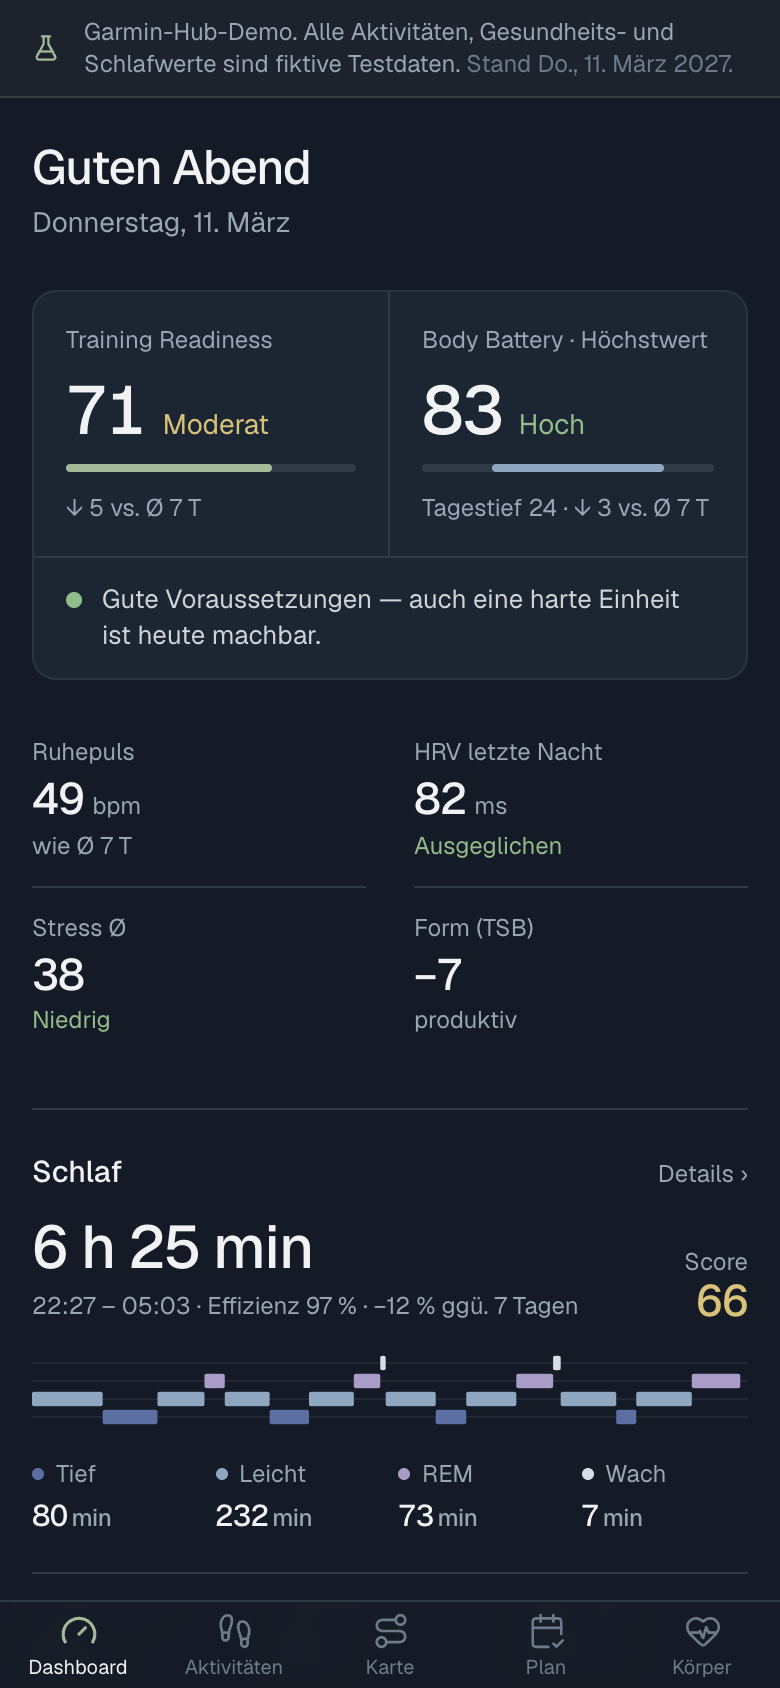
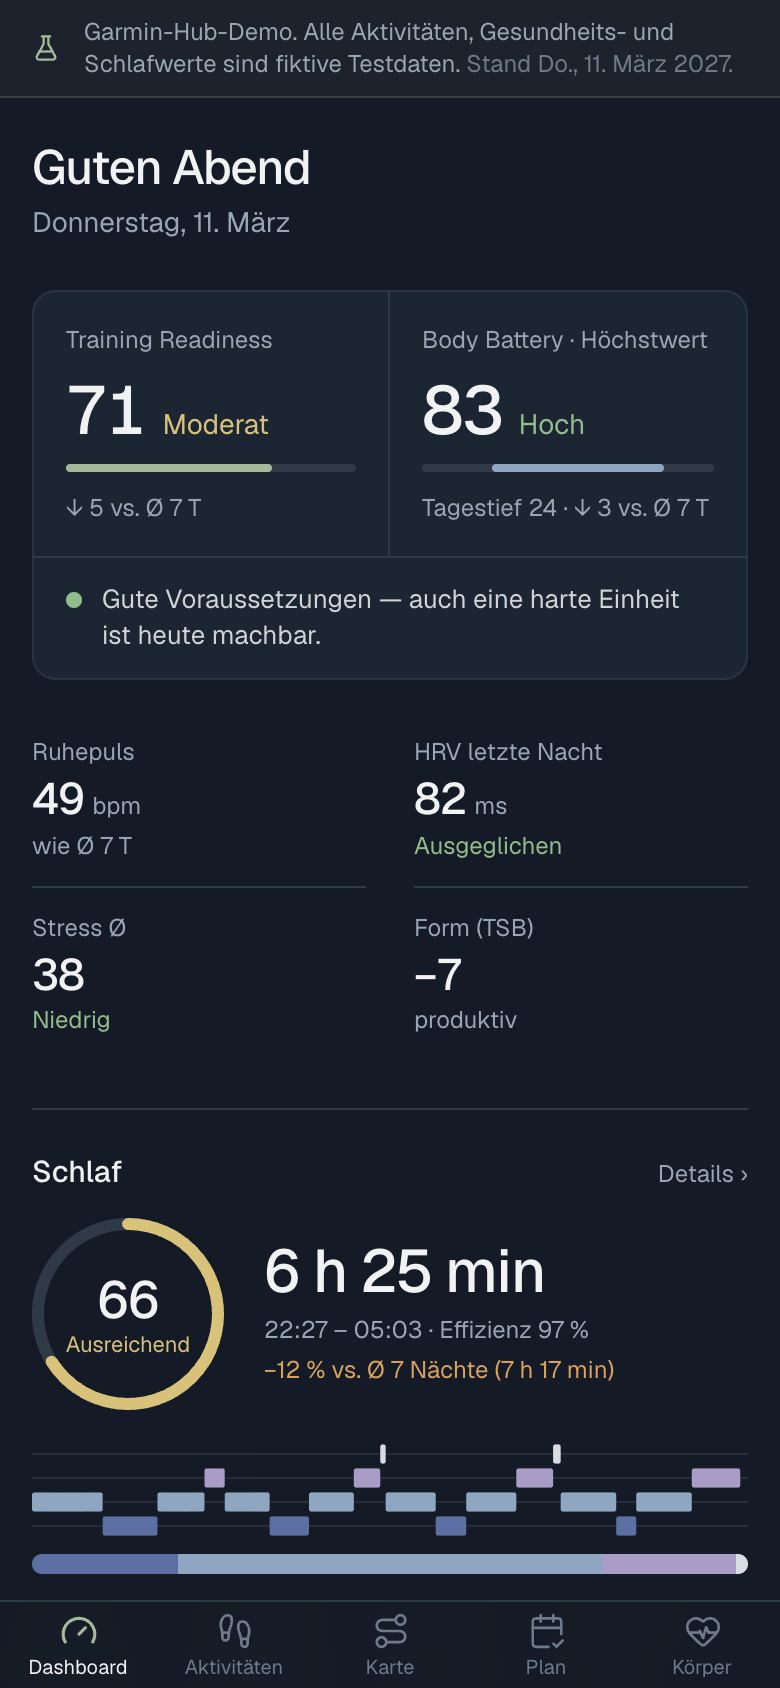
feat: Schlaf mit Score-Ring, Dauer daneben und Verlauf darunter
- Garmin Sleep Score als schlanker Ring mit Bewertung nach Garmins
  Bereichen (exzellent, gut, ausreichend, schlecht) in der Statusfarbe
- Daneben Dauer, Bettzeit, Effizienz und Abweichung vom Mittel der
  letzten 7 Nächte; darunter Mini-Hypnogramm, Phasenbalken und Phasen
  in Minuten und Prozent
- Gleicher Ring im Kopf der Schlaf-Detailansicht
- schlafScoreStufe mit Tests, Doku und Screenshots aktualisiert

Changed region(s): [[0.0308, 0.7085, 0.9538, 0.955]]

diff --git a/components/dashboard/schlaf-kachel-ansicht.tsx b/components/dashboard/schlaf-kachel-ansicht.tsx
@@ -2,6 +2,8 @@ import { AppLink as Link } from "@/components/basis-pfad";
 import { Abschnitt } from "@/components/ui/kachel";
 import { Skeleton } from "@/components/ui/skeleton";
 import { HypnogrammMini } from "@/components/schlaf/hypnogramm-mini";
+import { PhasenBalken } from "@/components/schlaf/phasen-balken";
+import { ScoreRing } from "@/components/schlaf/score-ring";
 import { PHASEN_FARBE } from "@/components/schlaf/farben";
 import { formatDauer, PHASEN, PHASEN_LABEL } from "@/lib/engine/schlaf";
 import { formatDatumLang } from "@/lib/format";
@@ -17,9 +19,15 @@ const DetailLink = ({ datum }: { datum: string }) => (
 export function SchlafKachelSkeleton() {
   return (
     <Abschnitt titel="Schlaf">
-      <div className="space-y-3" aria-busy>
-        <Skeleton className="h-8 w-40" />
-        <Skeleton className="h-8 w-full" />
+      <div className="space-y-4" aria-busy>
+        <div className="flex items-center gap-5">
+          <Skeleton className="size-[96px] shrink-0 rounded-full" />
+          <div className="flex-1 space-y-2">
+            <Skeleton className="h-8 w-36" />
+            <Skeleton className="h-4 w-48" />
+          </div>
+        </div>
+        <Skeleton className="h-12 w-full" />
         <Skeleton className="h-10 w-full" />
       </div>
     </Abschnitt>
@@ -40,9 +48,11 @@ function Wert({ label, wert, einheit }: { label: string; wert: string | null; ei
 }
 
 /**
- * Schlaf der letzten Nacht als ruhiger Abschnitt: Dauer und Score, schlanke
- * Phasen-Zeitleiste, Phasen in Minuten, Herzfrequenz, HRV und Atmung.
- * Ohne Daten ein kurzer Hinweis (auch von der Demo genutzt).
+ * Schlaf der letzten Nacht: Score-Ring mit Garmin-Bewertung, daneben Dauer,
+ * Bettzeit und Vergleich mit den letzten 7 Nächten; darunter der Verlauf
+ * der Nacht (Phasen-Zeitleiste und Anteile), Phasen in Minuten,
+ * Herzfrequenz, HRV und Atmung. Ohne Daten ein kurzer Hinweis (auch von der
+ * Demo genutzt).
  */
 export function SchlafKachelAnsicht({ detail, heute }: { detail: SchlafDetail | null; heute: string }) {
   if (!detail) {
@@ -56,31 +66,33 @@ export function SchlafKachelAnsicht({ detail, heute }: { detail: SchlafDetail | 
   const z = a.zusammenfassung;
   const nichtHeute = detail.datum !== heute;
   const dauer7 = a.vergleich.find((v) => v.metrik === "dauerS");
-  const scoreFarbe =
-    a.ampel === "gruen" ? "text-status-green" : a.ampel === "gelb" ? "text-status-yellow" : a.ampel === "rot" ? "text-status-red" : "text-muted-foreground";
+  const abw7 = dauer7?.abw7Proz != null ? Math.round(dauer7.abw7Proz) : null;
 
   return (
     <Abschnitt titel={nichtHeute ? `Schlaf · ${formatDatumLang(detail.datum)}` : "Schlaf"} aktion={<DetailLink datum={detail.datum} />}>
       <div className="space-y-4">
-        <div className="flex items-end justify-between gap-4">
-          <div>
+        {/* Score-Ring, daneben Dauer und Bettzeit */}
+        <div className="flex items-center gap-5">
+          <ScoreRing score={a.garminScore} />
+          <div className="min-w-0">
             <div className="stat-display text-[30px] leading-none">{formatDauer(z.dauerS)}</div>
             <div className="mt-1.5 text-xs text-muted-foreground">
               {z.startUhr && z.endeUhr ? `${z.startUhr} – ${z.endeUhr}` : "Zeitraum nicht verfügbar"}
               {z.effizienzProz != null && ` · Effizienz ${Math.round(z.effizienzProz)} %`}
-              {dauer7?.abw7Proz != null &&
-                ` · ${dauer7.abw7Proz > 0 ? "+" : "−"}${Math.abs(Math.round(dauer7.abw7Proz))} % ggü. 7 Tagen`}
             </div>
-          </div>
-          <div className="text-right">
-            <div className="text-xs text-muted-foreground">Score</div>
-            <div className={cn("stat-display text-[22px] leading-none", a.garminScore != null && scoreFarbe)}>
-              {a.garminScore != null ? Math.round(a.garminScore) : "–"}
+            <div className={cn("mt-1 text-xs", abw7 != null && abw7 <= -10 ? "text-status-orange" : "text-dim-foreground")}>
+              {abw7 != null
+                ? `${abw7 > 0 ? "+" : abw7 < 0 ? "−" : "±"}${Math.abs(abw7)} % vs. Ø 7 Nächte${dauer7?.mittel7 != null ? ` (${formatDauer(dauer7.mittel7)})` : ""}`
+                : "kein 7-Nächte-Vergleich"}
             </div>
           </div>
         </div>
 
-        <HypnogrammMini epochen={detail.epochen} startMs={z.startMs} endeMs={z.endeMs} className="h-9 w-full" />
+        {/* Verlauf der Nacht: Phasen-Zeitleiste und Anteile */}
+        <div className="space-y-2">
+          <HypnogrammMini epochen={detail.epochen} startMs={z.startMs} endeMs={z.endeMs} className="h-12 w-full" />
+          <PhasenBalken phasen={a.phasen} legende={false} />
+        </div>
 
         <dl className="grid grid-cols-4 gap-2">
           {PHASEN.map((p) => (
@@ -98,6 +110,9 @@ export function SchlafKachelAnsicht({ detail, heute }: { detail: SchlafDetail | 
                 ) : (
                   <span className="text-dim-foreground">–</span>
                 )}
+              </dd>
+              <dd className="text-xs text-dim-foreground tabular-nums">
+                {a.phasen[p].prozent != null ? `${Math.round(a.phasen[p].prozent!)} %` : "–"}
               </dd>
             </div>
           ))}

diff --git a/components/schlaf/schlaf-detail.tsx b/components/schlaf/schlaf-detail.tsx
@@ -55,6 +55,7 @@ import {
   Y_ACHSE,
 } from "@/components/ui/diagramm";
 import { PhasenBalken } from "./phasen-balken";
+import { ScoreRing } from "./score-ring";
 
 /* ------------------------------------------------------------------ */
 /* Daten                                                               */
@@ -371,32 +372,29 @@ function KopfKarte({ d }: { d: Detail | null }) {
     return (
       <Card>
         <CardContent className="space-y-3 py-4">
-          <Skeleton className="h-10 w-40" />
+          <div className="flex items-center gap-5">
+            <Skeleton className="size-[96px] shrink-0 rounded-full" />
+            <Skeleton className="h-10 w-40" />
+          </div>
           <Skeleton className="h-16 w-full" />
         </CardContent>
       </Card>
     );
   const a = d.analyse;
   const z = a.zusammenfassung;
-  const ampel =
-    a.ampel === "gruen" ? "bg-status-green" : a.ampel === "gelb" ? "bg-status-yellow" : a.ampel === "rot" ? "bg-status-red" : "bg-muted";
   return (
     <Card>
-      <CardContent className="space-y-3 py-4">
-        <div className="flex items-end justify-between gap-3">
+      <CardContent className="space-y-4 py-4">
+        {/* Score-Ring wie im Dashboard, daneben Dauer und Bettzeit */}
+        <div className="flex items-center gap-5">
+          <ScoreRing score={a.garminScore} />
           <div className="min-w-0">
             <div className="stat-display text-4xl leading-none">{formatDauer(z.dauerS)}</div>
-            <div className="mt-1 text-xs text-muted-foreground">
+            <div className="mt-1.5 text-xs text-muted-foreground">
               {z.startUhr && z.endeUhr ? `Im Bett ${z.startUhr}–${z.endeUhr}` : "Bettzeit nicht verfügbar"}
               {z.bettzeitS != null && ` · ${formatDauer(z.bettzeitS)}`}
             </div>
-          </div>
-          <div className="text-right">
-            <div className="flex items-center justify-end gap-1.5">
-              <span className={`size-2.5 rounded-full ${ampel}`} aria-hidden />
-              <span className="stat-display text-3xl leading-none">{a.garminScore != null ? Math.round(a.garminScore) : "–"}</span>
-            </div>
-            <div className="text-[11px] text-muted-foreground">Garmin-Score</div>
+            <div className="mt-1 text-xs text-dim-foreground">Garmin Sleep Score</div>
           </div>
         </div>
         <div className={KENNZAHLEN}>

diff --git a/components/schlaf/score-ring.tsx b/components/schlaf/score-ring.tsx
@@ -1,0 +1,40 @@
+import { Ring } from "@/components/ui/fortschritt";
+import { schlafScoreStufe, type ScoreStufe } from "@/lib/engine/schlaf";
+import { cn } from "@/lib/utils";
+
+const FARBE: Record<ScoreStufe["ampel"], string> = {
+  gruen: "var(--status-green)",
+  gelb: "var(--status-yellow)",
+  rot: "var(--status-red)",
+};
+
+const TEXT: Record<ScoreStufe["ampel"], string> = {
+  gruen: "text-status-green",
+  gelb: "text-status-yellow",
+  rot: "text-status-red",
+};
+
+/**
+ * Garmin Sleep Score als schlanker Ring (0–100): Zahl in der Mitte,
+ * Bewertung darunter, Bogen in der Statusfarbe. Ohne Score nur die Spur.
+ */
+export function ScoreRing({ score, groesse = 96, className }: { score: number | null; groesse?: number; className?: string }) {
+  const stufe = schlafScoreStufe(score);
+  const wert = score != null ? Math.round(score) : null;
+  return (
+    <Ring
+      wert={wert ?? 0}
+      max={100}
+      groesse={groesse}
+      dicke={6}
+      farbe={stufe ? FARBE[stufe.ampel] : undefined}
+      className={className}
+      label={wert != null && stufe ? `Garmin Sleep Score ${wert} von 100, ${stufe.label}` : "Garmin Sleep Score nicht verfügbar"}
+    >
+      <div className="text-center leading-none">
+        <div className="stat-display text-[26px]">{wert ?? <span className="text-dim-foreground">–</span>}</div>
+        <div className={cn("mt-1 text-[11px]", stufe ? TEXT[stufe.ampel] : "text-dim-foreground")}>{stufe?.label ?? "kein Score"}</div>
+      </div>
+    </Ring>
+  );
+}

diff --git a/lib/engine/__tests__/schlaf.test.ts b/lib/engine/__tests__/schlaf.test.ts
@@ -12,6 +12,7 @@ import {
   analysiereZusammenfassung,
   analysierePhasen,
   vergleicheMitBaseline,
+  schlafScoreStufe,
   type SchlafKernwerte,
   type SchlafNachtDaten,
 } from "../schlaf";
@@ -277,5 +278,27 @@ describe("Randfälle", () => {
     const { nacht } = fixtureNacht("2026-11-04");
     expect(kernwerte(nacht, { atemMittel: 99 }).atemMittel).toBe(99);
     expect(kernwerte(nacht).atemMittel).not.toBeNull();
+  });
+});
+
+describe("schlafScoreStufe", () => {
+  it("bewertet nach den Garmin-Bereichen", () => {
+    expect([95, 90, 85, 80, 79, 60, 59, 12].map((s) => schlafScoreStufe(s)?.label)).toEqual([
+      "Exzellent",
+      "Exzellent",
+      "Gut",
+      "Gut",
+      "Ausreichend",
+      "Ausreichend",
+      "Schlecht",
+      "Schlecht",
+    ]);
+    expect(schlafScoreStufe(57)?.ampel).toBe("rot");
+    expect(schlafScoreStufe(72)?.ampel).toBe("gelb");
+    expect(schlafScoreStufe(84)?.ampel).toBe("gruen");
+  });
+  it("ohne Score keine Bewertung", () => {
+    expect(schlafScoreStufe(null)).toBeNull();
+    expect(schlafScoreStufe(Number.NaN)).toBeNull();
   });
 });

diff --git a/lib/engine/schlaf.ts b/lib/engine/schlaf.ts
@@ -810,6 +810,24 @@ function fazitSatz(a: SchlafAnalyse): string {
   return `${teile.join(", ")}${vergleich}.${sorge}`;
 }
 
+export interface ScoreStufe {
+  label: "Exzellent" | "Gut" | "Ausreichend" | "Schlecht";
+  ampel: "gruen" | "gelb" | "rot";
+}
+
+/**
+ * Bewertung des Garmin Sleep Scores nach Garmins Bereichen:
+ * 90–100 exzellent, 80–89 gut, 60–79 ausreichend, darunter schlecht.
+ * Die Ampel entspricht `ampelVon` (≥ 80 grün, ≥ 60 gelb).
+ */
+export function schlafScoreStufe(score: number | null | undefined): ScoreStufe | null {
+  if (score == null || !Number.isFinite(score)) return null;
+  if (score >= 90) return { label: "Exzellent", ampel: "gruen" };
+  if (score >= 80) return { label: "Gut", ampel: "gruen" };
+  if (score >= 60) return { label: "Ausreichend", ampel: "gelb" };
+  return { label: "Schlecht", ampel: "rot" };
+}
+
 function ampelVon(score: number | null, regel: number | null): SchlafAnalyse["ampel"] {
   const s = score ?? regel;
   if (s == null) return null;

diff --git a/components/ui/fortschritt.tsx b/components/ui/fortschritt.tsx
@@ -10,6 +10,7 @@ export function Ring({
   groesse = 56,
   dicke = 4,
   ton = "lime",
+  farbe,
   children,
   className,
   label,
@@ -19,6 +20,8 @@ export function Ring({
   groesse?: number;
   dicke?: number;
   ton?: "lime" | "coral" | "blau";
+  /** eigene Farbe (z.B. Statusfarbe), überschreibt `ton` */
+  farbe?: string;
   children?: React.ReactNode;
   className?: string;
   label?: string;
@@ -40,7 +43,7 @@ export function Ring({
           cy={groesse / 2}
           r={r}
           fill="none"
-          stroke={ton === "lime" ? "var(--primary)" : ton === "blau" ? "var(--blau)" : "var(--coral)"}
+          stroke={farbe ?? (ton === "lime" ? "var(--primary)" : ton === "blau" ? "var(--blau)" : "var(--coral)")}
           strokeWidth={dicke}
           strokeLinecap="round"
           strokeDasharray={umfang}

diff --git a/docs/SCHLAF.md b/docs/SCHLAF.md
@@ -118,11 +118,15 @@ Alle Werte sind Uhr-Schätzungen; Richtwerte sind keine Diagnose.
 
 Abschnitt „Schlaf" (`components/dashboard/schlaf-kachel.tsx` lädt,
 `schlaf-kachel-ansicht.tsx` zeigt; die Demo nutzt nur die Ansicht): letzte Nacht
-mit Aufwachdatum ≤ heute (sonst mit Datum gekennzeichnet), Dauer, Bettzeit,
-Effizienz, Abweichung der Dauer vom 7-Tage-Mittel, Garmin-Score in der
-Ampelfarbe (oder „–"), schlanke Phasen-Zeitleiste (Mini-Hypnogramm), Tief,
-Leicht, REM und Wach in Minuten, Schlaf-Herzfrequenz, HRV und Atmung (je Ø der
-Nacht) und ein Satz Fazit. „Details ›" führt zu `/schlaf/<datum>`. Eigene
+mit Aufwachdatum ≤ heute (sonst mit Datum gekennzeichnet). Links der
+Garmin Sleep Score als Ring (`components/schlaf/score-ring.tsx`) mit Bewertung
+nach Garmins Bereichen — 90–100 exzellent, 80–89 gut, 60–79 ausreichend,
+darunter schlecht (`schlafScoreStufe`), Bogen in der Statusfarbe; daneben Dauer,
+Bettzeit, Effizienz und die Abweichung vom Mittel der letzten 7 Nächte.
+Darunter der Verlauf der Nacht (Mini-Hypnogramm und Phasenanteile als Balken),
+Tief, Leicht, REM und Wach in Minuten und Prozent, Schlaf-Herzfrequenz, HRV und
+Atmung (je Ø der Nacht) und ein Satz Fazit. Den gleichen Ring zeigt der Kopf der
+Detailansicht. „Details ›" führt zu `/schlaf/<datum>`. Eigene
 Suspense-Grenze mit Skeleton, damit das Dashboard nicht wartet. Ohne Daten:
 „Noch keine Schlafdaten — nach dem nächsten Sync verfügbar."
 
